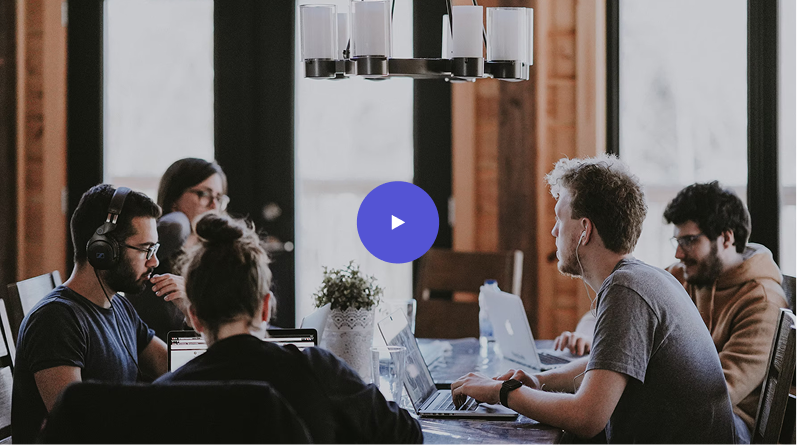
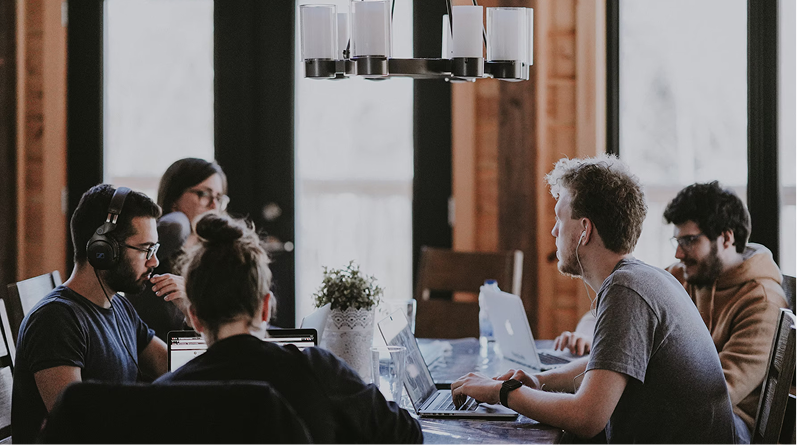
changed

Changed region(s): [[0.4216, 0.409, 0.5721, 0.6135]]

diff --git a/src/output.css b/src/output.css
@@ -177,8 +177,17 @@
   .relative {
     position: relative;
   }
+  .inset-0 {
+    inset: calc(var(--spacing) * 0);
+  }
   .top-0 {
     top: calc(var(--spacing) * 0);
+  }
+  .top-1 {
+    top: calc(var(--spacing) * 1);
+  }
+  .top-1\/2 {
+    top: calc(1/2 * 100%);
   }
   .top-10 {
     top: calc(var(--spacing) * 10);
@@ -189,6 +198,9 @@
   .top-\[-45px\] {
     top: -45px;
   }
+  .top-\[-50\%\] {
+    top: -50%;
+  }
   .top-\[-100px\] {
     top: -100px;
   }
@@ -198,8 +210,17 @@
   .top-\[37px\] {
     top: 37px;
   }
+  .top-\[40\%\] {
+    top: 40%;
+  }
+  .top-\[43\%\] {
+    top: 43%;
+  }
   .top-\[47px\] {
     top: 47px;
+  }
+  .top-\[50\%\] {
+    top: 50%;
   }
   .top-\[58px\] {
     top: 58px;
@@ -243,6 +264,9 @@
   .bottom-\[50px\] {
     bottom: 50px;
   }
+  .left-1 {
+    left: calc(var(--spacing) * 1);
+  }
   .left-1\/2 {
     left: calc(1/2 * 100%);
   }
@@ -267,6 +291,9 @@
   .left-\[17px\] {
     left: 17px;
   }
+  .left-\[50\%\] {
+    left: 50%;
+  }
   .left-\[106px\] {
     left: 106px;
   }
@@ -281,6 +308,12 @@
   }
   .z-10 {
     z-index: 10;
+  }
+  .m-0 {
+    margin: calc(var(--spacing) * 0);
+  }
+  .m-auto {
+    margin: auto;
   }
   .mx-auto {
     margin-inline: auto;
@@ -330,8 +363,23 @@
   .-ml-\[50vw\] {
     margin-left: calc(50vw * -1);
   }
+  .ml-0 {
+    margin-left: calc(var(--spacing) * 0);
+  }
+  .ml-1 {
+    margin-left: calc(var(--spacing) * 1);
+  }
+  .ml-2 {
+    margin-left: calc(var(--spacing) * 2);
+  }
   .ml-\[5\.31px\] {
     margin-left: 5.31px;
+  }
+  .ml-\[50\%\] {
+    margin-left: 50%;
+  }
+  .ml-auto {
+    margin-left: auto;
   }
   .flex {
     display: flex;
@@ -342,8 +390,29 @@
   .hidden {
     display: none;
   }
+  .table {
+    display: table;
+  }
+  .h-2 {
+    height: calc(var(--spacing) * 2);
+  }
+  .h-3 {
+    height: calc(var(--spacing) * 3);
+  }
+  .h-4 {
+    height: calc(var(--spacing) * 4);
+  }
   .h-9 {
     height: calc(var(--spacing) * 9);
+  }
+  .h-10 {
+    height: calc(var(--spacing) * 10);
+  }
+  .h-14 {
+    height: calc(var(--spacing) * 14);
+  }
+  .h-20 {
+    height: calc(var(--spacing) * 20);
   }
   .h-\[300\.29px\] {
     height: 300.29px;
@@ -362,6 +431,27 @@
   }
   .h-\[1710px\] {
     height: 1710px;
+  }
+  .w-2 {
+    width: calc(var(--spacing) * 2);
+  }
+  .w-3 {
+    width: calc(var(--spacing) * 3);
+  }
+  .w-4 {
+    width: calc(var(--spacing) * 4);
+  }
+  .w-5 {
+    width: calc(var(--spacing) * 5);
+  }
+  .w-10 {
+    width: calc(var(--spacing) * 10);
+  }
+  .w-14 {
+    width: calc(var(--spacing) * 14);
+  }
+  .w-20 {
+    width: calc(var(--spacing) * 20);
   }
   .w-\[215px\] {
     width: 215px;
@@ -411,8 +501,23 @@
   .max-w-\[548px\] {
     max-width: 548px;
   }
+  .border-collapse {
+    border-collapse: collapse;
+  }
+  .-translate-x-1 {
+    --tw-translate-x: calc(var(--spacing) * -1);
+    translate: var(--tw-translate-x) var(--tw-translate-y);
+  }
   .-translate-x-1\/2 {
     --tw-translate-x: calc(calc(1/2 * 100%) * -1);
+    translate: var(--tw-translate-x) var(--tw-translate-y);
+  }
+  .-translate-y-1 {
+    --tw-translate-y: calc(var(--spacing) * -1);
+    translate: var(--tw-translate-x) var(--tw-translate-y);
+  }
+  .-translate-y-1\/2 {
+    --tw-translate-y: calc(calc(1/2 * 100%) * -1);
     translate: var(--tw-translate-x) var(--tw-translate-y);
   }
   .rotate-32 {
@@ -435,6 +540,9 @@
   }
   .cursor-pointer {
     cursor: pointer;
+  }
+  .resize {
+    resize: both;
   }
   .grid-cols-1 {
     grid-template-columns: repeat(1, minmax(0, 1fr));
@@ -475,6 +583,9 @@
   .gap-y-16 {
     row-gap: calc(var(--spacing) * 16);
   }
+  .self-center {
+    align-self: center;
+  }
   .overflow-hidden {
     overflow: hidden;
   }
@@ -499,9 +610,16 @@
   .rounded-full {
     border-radius: calc(infinity * 1px);
   }
+  .border {
+    border-style: var(--tw-border-style);
+    border-width: 1px;
+  }
   .border-\[0\.66px\] {
     border-style: var(--tw-border-style);
     border-width: 0.66px;
+  }
+  .border-\[50\%\] {
+    border-color: 50%;
   }
   .bg-\[\#1E1E2080\] {
     background-color: #1E1E2080;
@@ -547,6 +665,12 @@
   }
   .p-3 {
     padding: calc(var(--spacing) * 3);
+  }
+  .p-5 {
+    padding: calc(var(--spacing) * 5);
+  }
+  .p-14 {
+    padding: calc(var(--spacing) * 14);
   }
   .px-6 {
     padding-inline: calc(var(--spacing) * 6);
@@ -684,6 +808,13 @@
   .text-\[\#FFFFFF\] {
     color: #FFFFFF;
   }
+  .underline {
+    text-decoration-line: underline;
+  }
+  .outline {
+    outline-style: var(--tw-outline-style);
+    outline-width: 1px;
+  }
   .blur-\[100px\] {
     --tw-blur: blur(100px);
     filter: var(--tw-blur,) var(--tw-brightness,) var(--tw-contrast,) var(--tw-grayscale,) var(--tw-hue-rotate,) var(--tw-invert,) var(--tw-saturate,) var(--tw-sepia,) var(--tw-drop-shadow,);
@@ -702,6 +833,9 @@
   }
   .blur-\[165px\] {
     --tw-blur: blur(165px);
+    filter: var(--tw-blur,) var(--tw-brightness,) var(--tw-contrast,) var(--tw-grayscale,) var(--tw-hue-rotate,) var(--tw-invert,) var(--tw-saturate,) var(--tw-sepia,) var(--tw-drop-shadow,);
+  }
+  .filter {
     filter: var(--tw-blur,) var(--tw-brightness,) var(--tw-contrast,) var(--tw-grayscale,) var(--tw-hue-rotate,) var(--tw-invert,) var(--tw-saturate,) var(--tw-sepia,) var(--tw-drop-shadow,);
   }
   .transition {
@@ -1296,6 +1430,36 @@
       display: block;
     }
   }
+  .sm\:h-6 {
+    @media (width >= 40rem) {
+      height: calc(var(--spacing) * 6);
+    }
+  }
+  .sm\:h-7 {
+    @media (width >= 40rem) {
+      height: calc(var(--spacing) * 7);
+    }
+  }
+  .sm\:h-20 {
+    @media (width >= 40rem) {
+      height: calc(var(--spacing) * 20);
+    }
+  }
+  .sm\:w-6 {
+    @media (width >= 40rem) {
+      width: calc(var(--spacing) * 6);
+    }
+  }
+  .sm\:w-7 {
+    @media (width >= 40rem) {
+      width: calc(var(--spacing) * 7);
+    }
+  }
+  .sm\:w-20 {
+    @media (width >= 40rem) {
+      width: calc(var(--spacing) * 20);
+    }
+  }
   .sm\:flex-col {
     @media (width >= 40rem) {
       flex-direction: column;
@@ -1598,9 +1762,14 @@
       left: 850px;
     }
   }
-  .\[\@media\(min-width\:1190px\)_and_\(max-width\:1280px\)\]\:gap-20 {
+  .\[\@media\(min-width\:1190px\)_and_\(max-width\:1280px\)\]\:gap-21 {
     @media (min-width:1190px) and (max-width:1280px) {
-      gap: calc(var(--spacing) * 20);
+      gap: calc(var(--spacing) * 21);
+    }
+  }
+  .\[\@media\(min-width\:1190px\)_and_\(max-width\:1280px\)\]\:gap-22 {
+    @media (min-width:1190px) and (max-width:1280px) {
+      gap: calc(var(--spacing) * 22);
     }
   }
   .\[\@media\(min-width\:2200px\)\]\:top-\[1600px\] {
@@ -1723,6 +1892,11 @@ html, body {
   syntax: "*";
   inherits: false;
 }
+@property --tw-outline-style {
+  syntax: "*";
+  inherits: false;
+  initial-value: solid;
+}
 @property --tw-blur {
   syntax: "*";
   inherits: false;
@@ -1819,6 +1993,7 @@ html, body {
       --tw-leading: initial;
       --tw-font-weight: initial;
       --tw-tracking: initial;
+      --tw-outline-style: solid;
       --tw-blur: initial;
       --tw-brightness: initial;
       --tw-contrast: initial;

diff --git a/src/index.html b/src/index.html
@@ -155,7 +155,7 @@
 
       <section class="pt-[21px] max-[450px]:mt-[140px] sm:mt-30">
         <div
-          class="flex max-[955px]:flex-wrap justify-between items-start mb-[33px] [@media(min-width:451px)_and_(max-width:770px)]:justify-start [@media(min-width:451px)_and_(max-width:770px)]:text-start [@media(min-width:451px)_and_(max-width:770px)]:gap-8 max-[955px]:gap-4 [@media(min-width:1190px)_and_(max-width:1280px)]:gap-20"
+          class="flex max-[955px]:flex-wrap justify-between items-start mb-[33px] [@media(min-width:451px)_and_(max-width:770px)]:justify-start [@media(min-width:451px)_and_(max-width:770px)]:text-start [@media(min-width:451px)_and_(max-width:770px)]:gap-8 max-[955px]:gap-4 [@media(min-width:1190px)_and_(max-width:1280px)]:gap-21"
         >
           <h1
             class="font-Graphik font-bold text-[#FFFFFF] text-[39.82px] leading-[46.46px] max-[450px]:text-[36px] max-[450px]:leading-[150%] xl:text-[50px] 2xl:leading-[58px]"
@@ -170,8 +170,15 @@
             services!
           </p>
         </div>
-        <div class="mt-[33.1px] max-[450px]:mt-[50px] max-[770px]:mt-[53px]">
-          <img class="w-full" src="assets/BG.png" alt="bg-image" />
+        <div
+          class="mt-[33.1px] max-[450px]:mt-[50px] max-[770px]:mt-[53px] relative"
+        >
+          <img class="w-full" src="assets/Bg.png" alt="bg-image" />
+          <div
+            class="absolute m-auto inset-0 w-10 h-10 sm:w-20 sm:h-20 rounded-full bg-[#5454D4] flex justify-center items-center"
+          >
+            <img class="w-3 h-3 ml-1 sm:w-7 sm:h-7 " src="assets/Path.svg" alt="" />
+          </div>
         </div>
       </section>
 
@@ -463,7 +470,7 @@
             </p>
             <button
               style="font-family: 'Nunito Sans'"
-              class="bg-[#5454D4] text-center font-bold sm:rounded-sm text-[#FFFFFF] text-[13.94px] max-w-[133px] w-full py-[9.5px] max-[770px]:mt-[50px] md:mt-6 lg:mt-0 max-[640px]:self-start max-[640px]:text-[16px] max-[640px]:max-w-[166px] cursor-pointer hover:bg-[#3F3FD1] transition-colors duration-500 "
+              class="bg-[#5454D4] text-center font-bold sm:rounded-sm text-[#FFFFFF] text-[13.94px] max-w-[133px] w-full py-[9.5px] max-[770px]:mt-[50px] md:mt-6 lg:mt-0 max-[640px]:self-start max-[640px]:text-[16px] max-[640px]:max-w-[166px] cursor-pointer hover:bg-[#3F3FD1] transition-colors duration-500"
             >
               Contact us
             </button>
